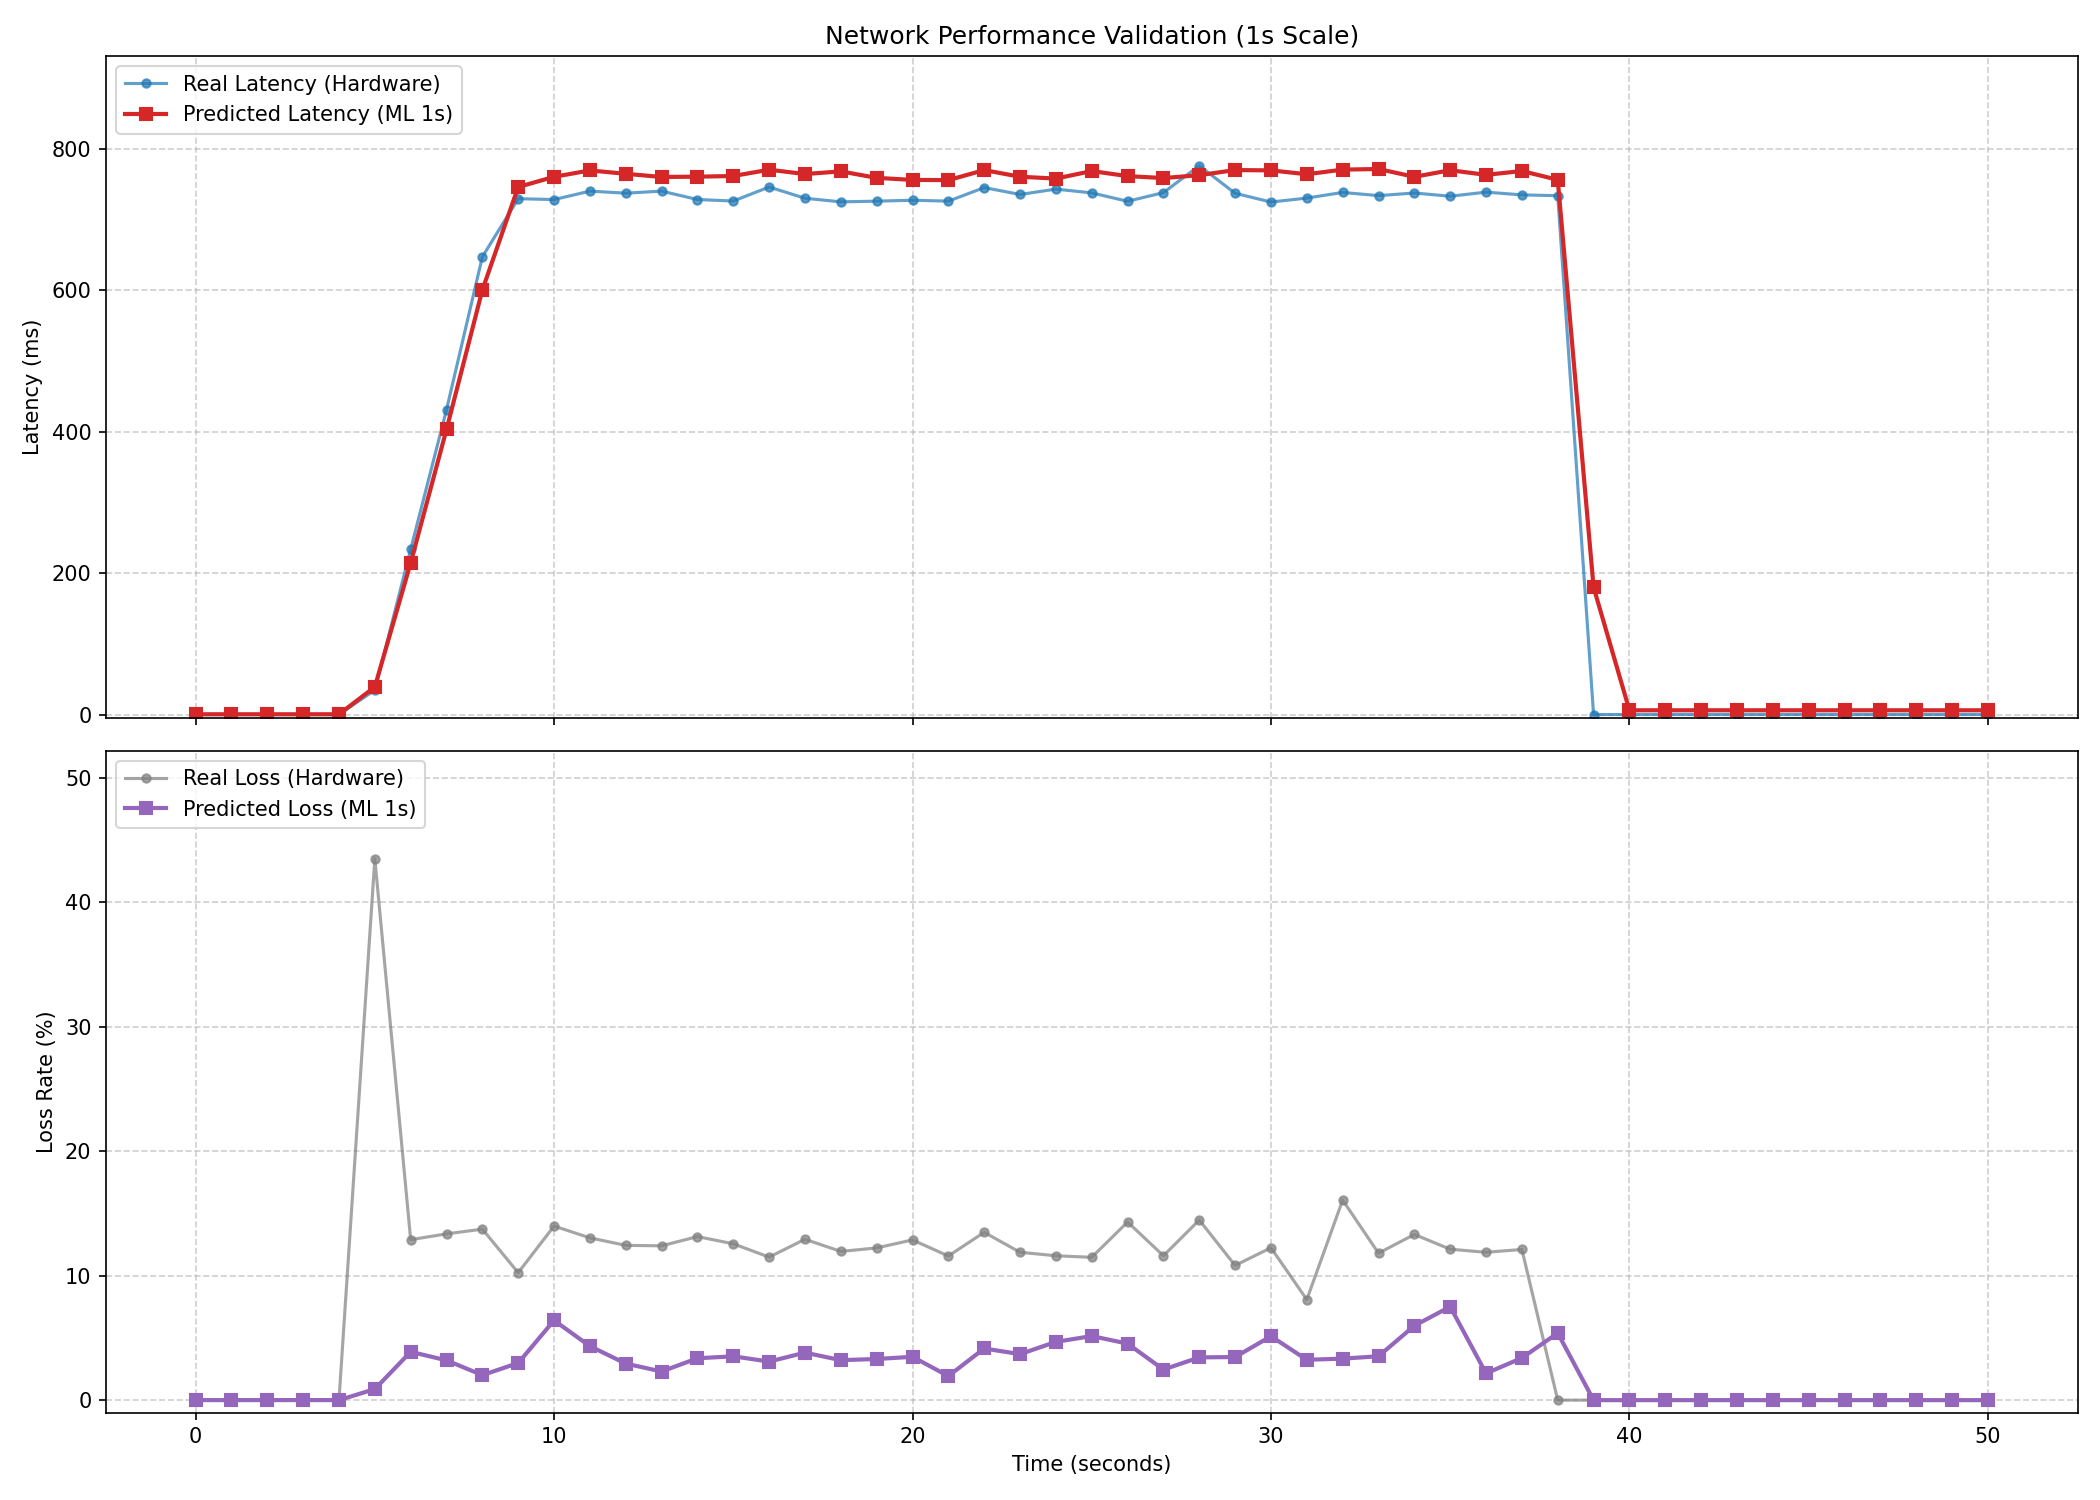
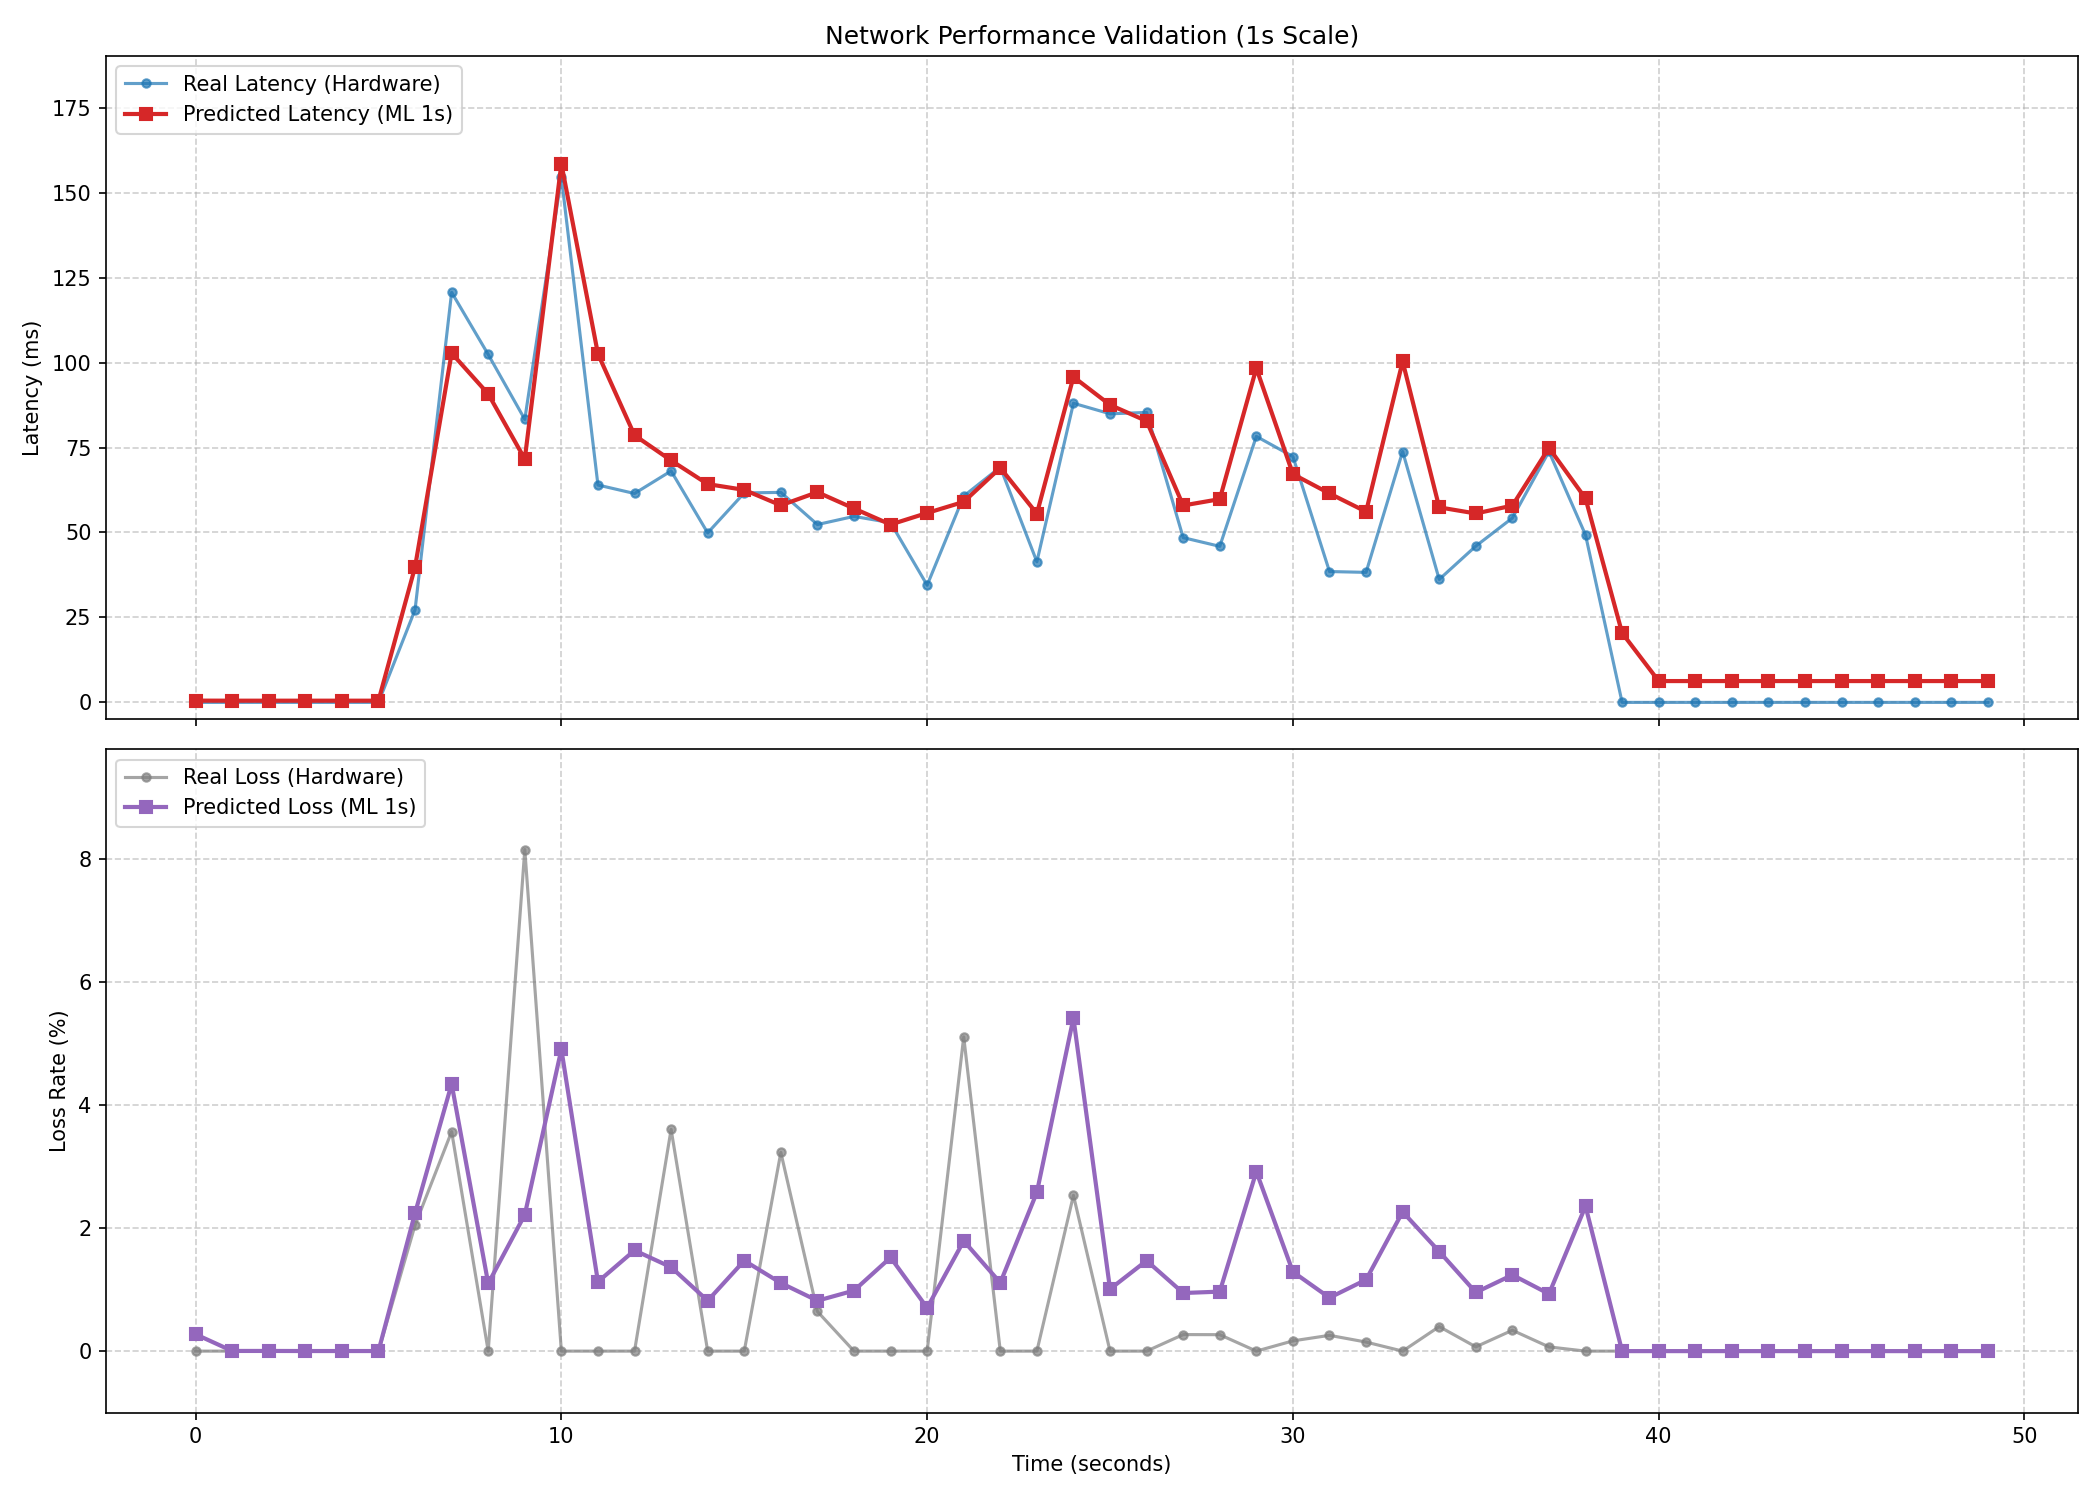
remove the log transform in loss prediction model

diff --git a/drill_4_4/train_1s_models.py b/drill_4_4/train_1s_models.py
@@ -83,6 +83,10 @@ def add_1s_features(df):
     df["Q_Danger_Flag"] = (df["Max_QDepth"] > 40).astype(int)  # 佇列超過40視為危險
     df["Q_Danger_Count"] = sum((df[f"src1_port{p}_qdepth"] > 40).astype(int) for p in [2, 3, 4, 5])
     
+    # 新增互動特徵 (Overflow Intensity) 針對丟包預測優化
+    df["Overflow_Intensity"] = df["Over_Capacity_Sum"] * df["Max_Q_Ratio"]
+    df["Queue_Full_And_Over_Cap"] = df["Over_Capacity_Sum"] * df["Q_Danger_Flag"]
+    
     # ==========================================
     # 時序趨勢特徵 (Time-Series / Temporal Features)
     # ==========================================
@@ -109,7 +113,8 @@ SELECTED_FEATURES = [
     "Mbps_Trend_P2", "Mbps_Trend_P3", "Mbps_Trend_P4", "Mbps_Trend_P5",
     "Total_QDepth_Trend",
     "Total_Actual_Mbps", "Expected_Over_Capacity_Sum",
-    "Expected_Util_P2", "Expected_Util_P3", "Expected_Util_P4", "Expected_Util_P5"
+    "Expected_Util_P2", "Expected_Util_P3", "Expected_Util_P4", "Expected_Util_P5",
+    "Overflow_Intensity", "Queue_Full_And_Over_Cap"
 ]
 
 def train_1s_models():
@@ -146,32 +151,41 @@ def train_1s_models():
         # 過濾無效標籤
         subset = df[df[label_col] != -1.0].copy()
         X = subset[available_features]
-        # 對標籤進行 log1p 變換以平滑分佈
-        y_log = np.log1p(subset[label_col])
+        
+        # 根據目標決定是否使用 log1p 變換
+        use_log = "latency" in name
+        if use_log:
+            y_target = np.log1p(subset[label_col])
+        else:
+            y_target = subset[label_col]
         
         cv = KFold(n_splits=5, shuffle=True, random_state=42)
         r2_list, mae_list = [], []
         
         for train_idx, test_idx in cv.split(X):
             X_tr, X_te = X.iloc[train_idx], X.iloc[test_idx]
-            y_log_tr, y_te_raw = y_log.iloc[train_idx], subset[label_col].iloc[test_idx]
+            y_target_tr, y_te_raw = y_target.iloc[train_idx], subset[label_col].iloc[test_idx]
             
             model = RandomForestRegressor(**BEST_PARAMS)
-            model.fit(X_tr, y_log_tr)
+            model.fit(X_tr, y_target_tr)
             
             # 預測並還原
-            preds_log = model.predict(X_te)
-            preds_orig = np.expm1(preds_log)
+            preds = model.predict(X_te)
+            if use_log:
+                preds_orig = np.expm1(preds)
+            else:
+                preds_orig = preds
             
-            r2_list.append(r2_score(y_log.iloc[test_idx], preds_log))
+            r2_list.append(r2_score(y_target.iloc[test_idx], preds))
             mae_list.append(mean_absolute_error(y_te_raw, preds_orig))
             
         unit = "%" if "loss" in name else "ms"
-        print(f"[{name:12}] R2(log): {np.mean(r2_list):.4f} | MAE: {np.mean(mae_list):.4f} {unit}")
+        metric_name = "R2(log)" if use_log else "R2(raw)"
+        print(f"[{name:12}] {metric_name}: {np.mean(r2_list):.4f} | MAE: {np.mean(mae_list):.4f} {unit}")
 
         # 訓練最終模型
         final_model = RandomForestRegressor(**BEST_PARAMS)
-        final_model.fit(X, y_log)
+        final_model.fit(X, y_target)
         joblib.dump(final_model, f"rf_model_{name}.pkl")
         print(f"模型已儲存至: rf_model_{name}.pkl")
 

diff --git a/drill_4_4/plot_1s_metrics.py b/drill_4_4/plot_1s_metrics.py
@@ -5,11 +5,15 @@ import pandas as pd
 import numpy as np
 import matplotlib.pyplot as plt
 from datetime import datetime
+import warnings
+
+warnings.filterwarnings("ignore")
+warnings.simplefilter("ignore", ResourceWarning)
 
 # 導入 1s 控制器邏輯
 from realtime_1s_predictor import Realtime1sPredictor, FEATURE_NAMES
 
-def run_1s_validation(test_duration=60, output_csv="research_results/data/validation/1s_metrics_validation_0.6*5.csv", output_img="research_results/plots/validation/1s_metrics_comparison_0.6*5.png"):
+def run_1s_validation(test_duration=60, output_csv="research_results/data/validation/1s_metrics_validation_0.3*10.csv", output_img="research_results/plots/validation/1s_metrics_comparison_0.3*10.png"):
     print("\n" + "="*100)
     print(f" [1s 尺度預測驗證工具] 開始測試 - 預計時長: {test_duration} 秒")
     print(f" 數據: {output_csv} | 圖表: {output_img}")
@@ -38,7 +42,7 @@ def run_1s_validation(test_duration=60, output_csv="research_results/data/valida
             preds = {}
             for k, m in predictor.models.items():
                 p = m.predict(X)[0]
-                if k != "anomaly":
+                if k == "latency":
                     p = np.expm1(p)
                 preds[k] = p
             

diff --git a/drill_4_4/realtime_1s_predictor.py b/drill_4_4/realtime_1s_predictor.py
@@ -54,7 +54,8 @@ FEATURE_NAMES = [
     "Mbps_Trend_P2", "Mbps_Trend_P3", "Mbps_Trend_P4", "Mbps_Trend_P5",
     "Total_QDepth_Trend",
     "Total_Actual_Mbps", "Expected_Over_Capacity_Sum",
-    "Expected_Util_P2", "Expected_Util_P3", "Expected_Util_P4", "Expected_Util_P5"
+    "Expected_Util_P2", "Expected_Util_P3", "Expected_Util_P4", "Expected_Util_P5",
+    "Overflow_Intensity", "Queue_Full_And_Over_Cap"
 ]
 
 class Realtime1sPredictor:
@@ -240,6 +241,8 @@ class Realtime1sPredictor:
         row["Group_Imbalance"] = abs((load_a / max(0.01, weight_a)) - (load_b / max(0.01, weight_b)))
         
         row["Over_Capacity_Sum"] = sum(max(0, row[f"src1_port{p}_mbps"] - CAPACITY[p]) for p in PORTS)
+        row["Overflow_Intensity"] = row["Over_Capacity_Sum"] * row["Max_Q_Ratio"]
+        row["Queue_Full_And_Over_Cap"] = row["Over_Capacity_Sum"] * row["Q_Danger_Flag"]
 
         # 4. 時序趨勢 (Trend)
         if self.prev_state is None:
@@ -271,7 +274,7 @@ class Realtime1sPredictor:
                 preds = {}
                 for k, m in self.models.items():
                     p = m.predict(X)[0]
-                    if k != "anomaly":
+                    if k == "latency":
                         p = np.expm1(p)
                     preds[k] = p
                 

diff --git a/drill_4_4/README.md b/drill_4_4/README.md
@@ -44,9 +44,10 @@ python3 realtime_ml_controller.py
 ### 5. 執行視覺化驗證圖表
 在有流量背景的情況下，錄製並產生專業的效能對比圖：
 ```bash
-python3 plot_all_metrics.py [持續秒數]
+python3 plot_all_metrics.py [持續秒數] # 10s 尺度
+python3 plot_1s_metrics.py [持續秒數]  # 1s 尺度
 ```
-*圖表儲存於：`research_results/plots/validation/full_metrics_comparison.png`*
+*圖表儲存於：`research_results/plots/validation/full_metrics_comparison.png`/`research_results/plots/validation/1s_metrics_comparison.png`*
 
 ---
 